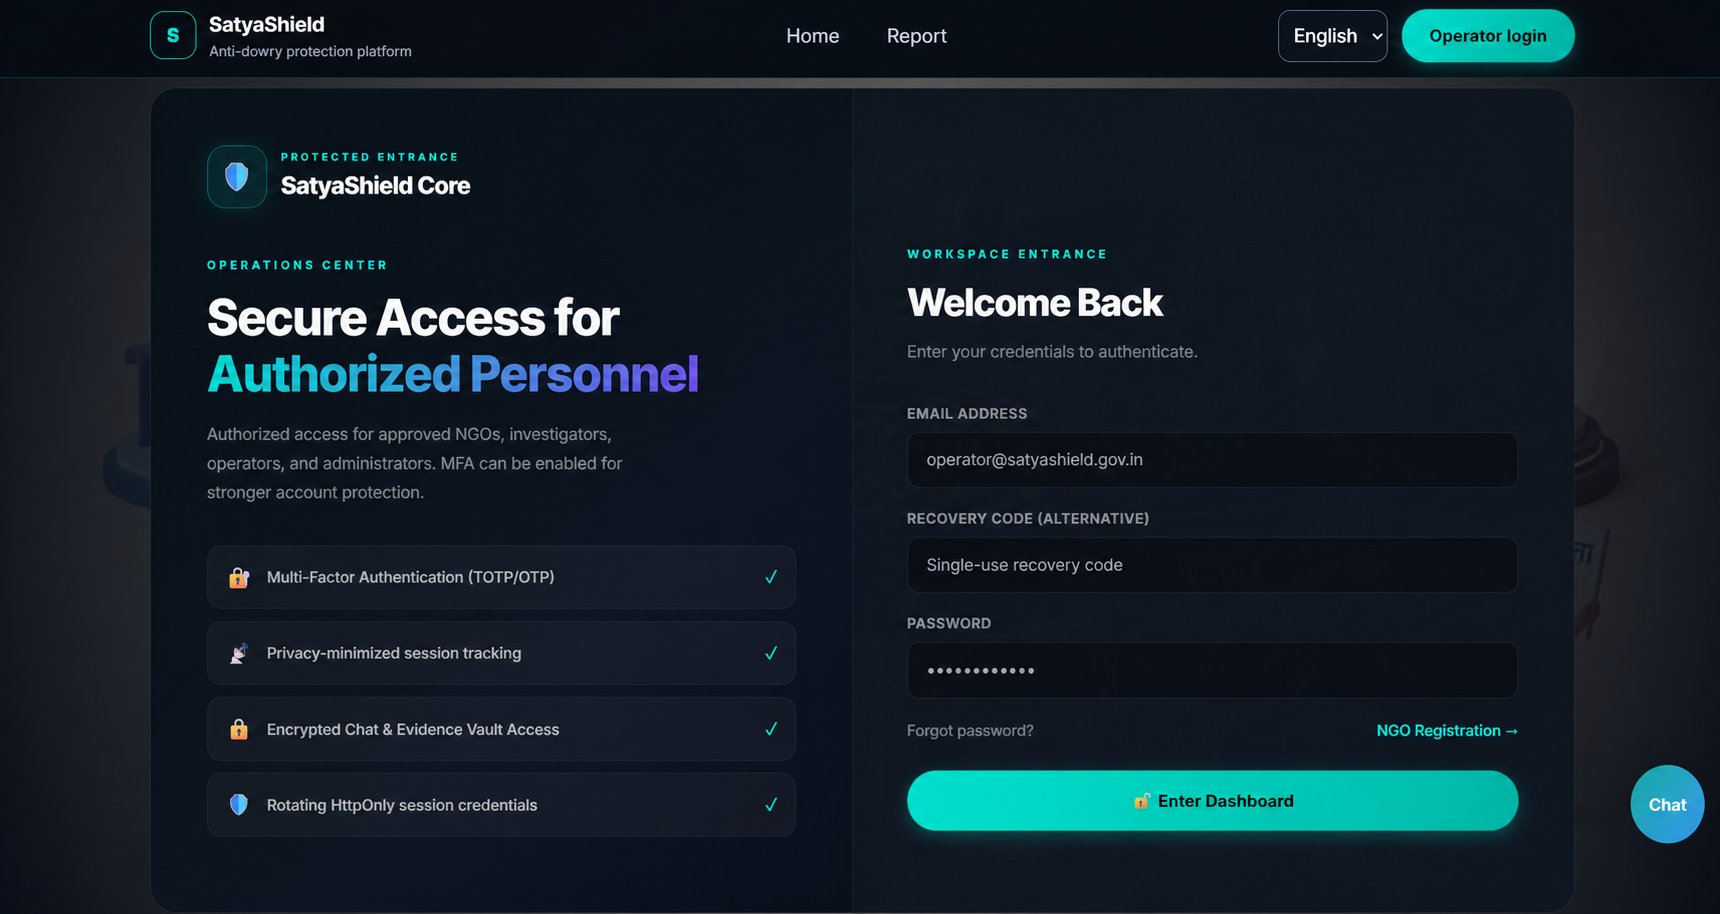
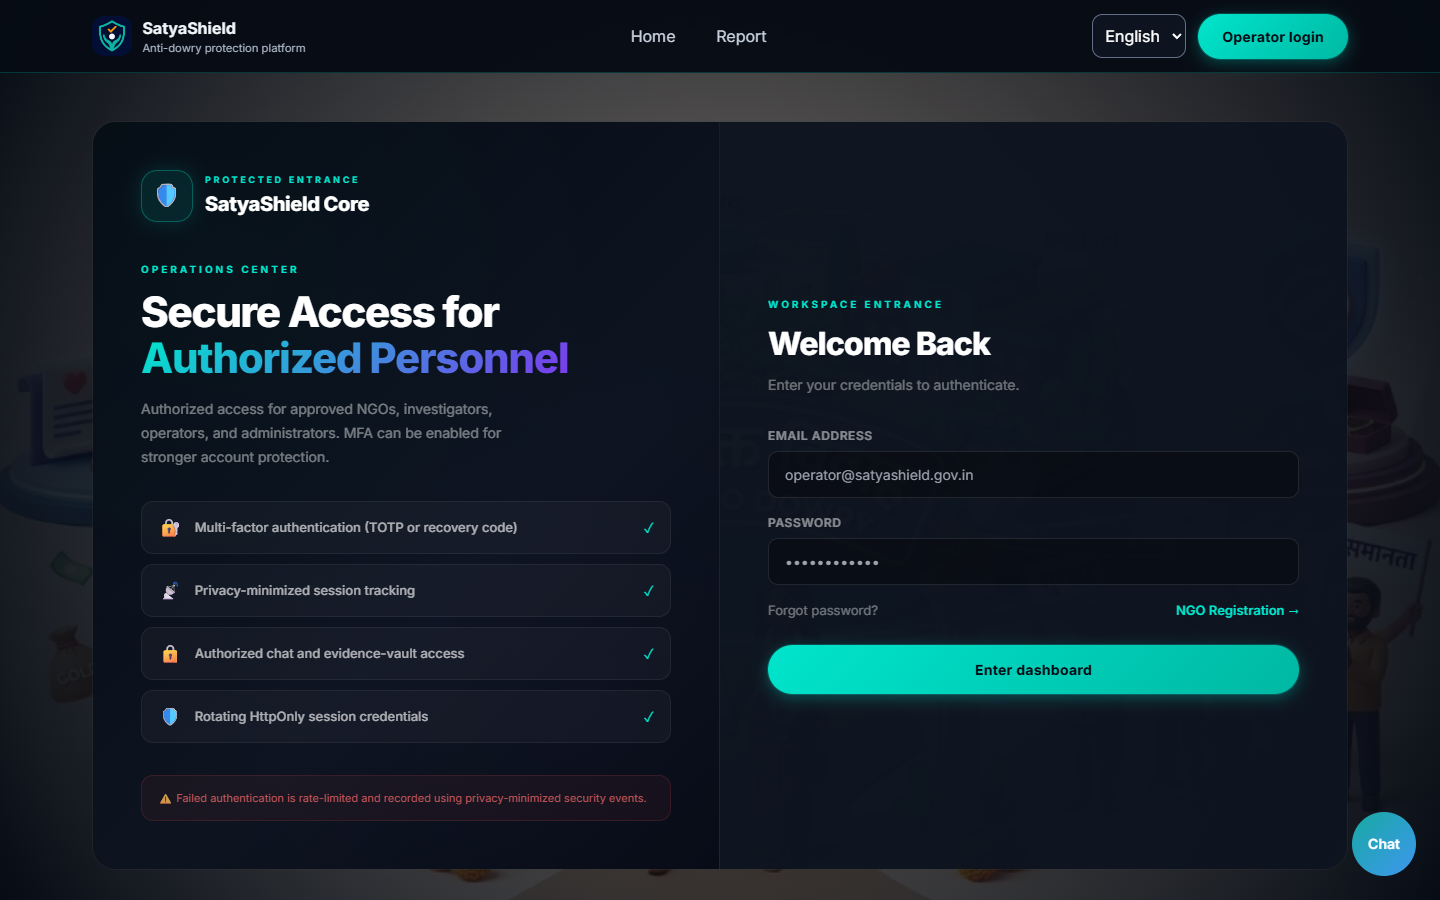
Refresh project documentation and live screenshots

diff --git a/README.md b/README.md
@@ -1,59 +1,107 @@
 # SatyaShield
 
 <p align="center">
-  <img src="client/public/satyashield-logo.png" alt="SatyaShield logo" width="720" />
+  <img src="client/public/satyashield-logo.png" alt="SatyaShield logo" width="620" />
 </p>
 
-SatyaShield is a privacy-focused MERN application for reporting dowry-harassment concerns, privately tracking a case, and coordinating authorized NGO, investigator, and administrative work.
+<p align="center">
+  A privacy-focused MERN platform for identity-minimized complaint reporting, protected case tracking, and controlled collaboration between authorized organizations and personnel.
+</p>
 
-> SatyaShield is not an emergency-dispatch service. It does not guarantee police, ambulance, NGO, message-delivery, or response outcomes.
+<p align="center">
+  <a href="https://satya-shield-client.vercel.app"><strong>Open Live Demo</strong></a>
+  &nbsp;•&nbsp;
+  <a href="https://satyashield-api.onrender.com/api/v1/health">API Health</a>
+  &nbsp;•&nbsp;
+  <a href="docs/architecture-and-security.md">Architecture &amp; Security</a>
+</p>
 
-## Highlights
+> [!IMPORTANT]
+> **PUBLIC DEMO AND INTERNAL EVALUATION ONLY — NOT A LIVE CASEWORK OR EMERGENCY SERVICE**
+>
+> SatyaShield is engineered as a substantial full-stack system whose architecture can support real complaint workflows, verified NGO participation, evidence handling, staff review, realtime communication, escalation, and internal SOS coordination when it is operated with approved organizations, qualified personnel, production infrastructure, monitoring, legal review, and audited security controls.
+>
+> **The current public deployment is intentionally restricted to demonstration and internal evaluation. It must not be used for actual complaints, real NGO casework, emergency assistance, or time-sensitive safety situations.** External emergency delivery is disabled, no response is guaranteed, and the platform does not contact police, ambulances, emergency responders, or public helplines. These restrictions are deliberate safeguards—not missing marketing claims.
 
-- Anonymous complaint intake with structured safety questions and explicit privacy acknowledgment.
-- One-time reporter access secret; only its keyed hash is retained.
-- Complaint-scoped tracking, evidence, chat, and internal SOS access.
-- Encrypted private evidence vault with lifecycle and integrity controls.
-- Staff authentication with rotating sessions, CSRF protection, TOTP MFA, and recovery codes.
-- Exact-resource authorization for NGOs, investigators, administrators, and superadministrators.
-- Deterministic NGO matching, capacity checks, assignment acknowledgment, and immediate revocation.
-- Deterministic triage, immutable assessment history, and restricted human overrides.
-- Internal deadlines, idempotent escalation scheduling, and complaint-scoped Socket.IO chat.
-- English and Hindi interface catalogs with automated parity and visible-string checks.
-- Provider-neutral notification queue and review-gated legal-information architecture.
+## Overview
 
-External AI and external SOS delivery are disabled.
+SatyaShield demonstrates how a sensitive social-impact workflow can be built around data minimization, exact-resource authorization, encrypted evidence, deterministic decision rules, and human oversight. Reporters receive one-time case credentials instead of creating an identity-linked account, while each staff role receives only the access required for its assigned responsibilities.
 
-## Architecture
+The application includes a React interface, an Express API, MongoDB-backed workflows, complaint-scoped Socket.IO communication, private evidence controls, role-based workspaces, and bilingual English/Hindi interface catalogs.
 
-The React client calls a versioned Express API. MongoDB stores case and workflow records; private evidence is encrypted before it reaches isolated storage. Reporter and staff credentials use separate token purposes and authorization boundaries. Realtime chat revalidates complaint access and supports immediate revocation.
+## Core capabilities
 
-See [Architecture and security](docs/architecture-and-security.md), [Authorization matrix](docs/authorization-matrix.md), and [Privacy data flow](docs/privacy-data-flow.md).
+- **Identity-minimized reporting** — complaint intake avoids requesting a reporter's name, phone number, exact address, or exact GPS coordinates.
+- **One-time private case access** — reporters receive a case ID and one-time access secret; only a keyed hash of the secret is retained.
+- **Structured safety triage** — deterministic answers guide review priority without narrative keyword scanning or external AI scoring.
+- **Human review controls** — immutable assessment history, review queues, restricted overrides, and explicit handling for Critical cases.
+- **Private evidence vault** — authorized evidence workflows include encryption, integrity checks, metadata minimization, and access logging.
+- **Exact-resource authorization** — reporter, NGO, investigator, administrator, and superadministrator permissions are separated and enforced per case.
+- **NGO routing and assignments** — verification state, coverage, capability, capacity, acknowledgment, reassignment, and immediate revocation are modeled explicitly.
+- **Secure staff authentication** — rotating refresh sessions, HttpOnly cookies, CSRF protection, TOTP MFA, recovery codes, and session revocation.
+- **Realtime case communication** — persistent complaint-scoped chat supports reconnection recovery and live access revocation.
+- **Escalation automation** — deadlines, scheduler leasing, retries, and idempotent internal workflow actions.
+- **Internal SOS workflow** — confirmation, cancellation, duplicate prevention, and optional encrypted location sharing without external dispatch.
+- **Bilingual and accessible interface** — English/Hindi catalogs, translation parity checks, keyboard support, responsive layouts, and automated accessibility coverage.
+- **Privacy-safe auditability** — security-relevant events are recorded without intentionally placing reporter credentials or private case content in routine logs.
 
-## Screenshots
+## Live application
 
-### Home
+| Component | Public endpoint | Purpose |
+| --- | --- | --- |
+| Web application | [satya-shield-client.vercel.app](https://satya-shield-client.vercel.app) | Public demonstration interface |
+| API service | [satyashield-api.onrender.com](https://satyashield-api.onrender.com) | Render-hosted backend |
+| Health endpoint | [API health check](https://satyashield-api.onrender.com/api/v1/health) | Service availability check |
 
-![SatyaShield home screen](docs/screenshots/home.png)
+The API uses Render's free service tier, so the first request after an idle period may take approximately 30–60 seconds. The demo uses safe, restricted integrations and does not activate real-world recipients or emergency delivery.
 
-### Anonymous complaint intake
+## Live deployment screenshots
 
-![SatyaShield anonymous complaint form](docs/screenshots/anonymous-report.png)
+The images below were captured directly from the public deployment.
 
-### Authorized staff login
+<table>
+  <tr>
+    <td width="50%" align="center">
+      <a href="docs/screenshots/home.png"><img src="docs/screenshots/home.png" alt="SatyaShield live home page" width="100%" /></a><br />
+      <sub><strong>Public home and private case entry</strong></sub>
+    </td>
+    <td width="50%" align="center">
+      <a href="docs/screenshots/anonymous-report.png"><img src="docs/screenshots/anonymous-report.png" alt="SatyaShield live anonymous complaint form" width="100%" /></a><br />
+      <sub><strong>Identity-minimized complaint intake</strong></sub>
+    </td>
+  </tr>
+  <tr>
+    <td colspan="2" align="center">
+      <a href="docs/screenshots/operator-login.png"><img src="docs/screenshots/operator-login.png" alt="SatyaShield live authorized staff login" width="49%" /></a><br />
+      <sub><strong>Protected staff workspace entrance</strong></sub>
+    </td>
+  </tr>
+</table>
 
-![SatyaShield operator login](docs/screenshots/operator-login.png)
+## Security and privacy design
+
+- Reporter and staff credentials use separate token purposes and authorization boundaries.
+- Refresh-token rotation and token-family reuse detection protect authenticated sessions.
+- Complaint access is revalidated for HTTP requests and realtime socket activity.
+- Assignment withdrawal or reassignment removes access immediately.
+- Evidence is encrypted before private storage and is never intentionally exposed as a public static upload.
+- External AI remains disabled and fails closed.
+- SOS actions remain inside SatyaShield; external delivery invocation is disabled.
+- Sensitive production values are supplied through environment configuration and are not committed to the repository.
+
+Detailed design references are available in the [architecture and security overview](docs/architecture-and-security.md), [authorization matrix](docs/authorization-matrix.md), and [privacy data flow](docs/privacy-data-flow.md).
 
 ## Technology
 
 - React 18, Vite, Tailwind CSS, and React Router
 - Node.js and Express
-- MongoDB Atlas with Mongoose
+- MongoDB Atlas and Mongoose
 - Socket.IO
 - JWT, rotating refresh tokens, TOTP, AES-GCM, HMAC, and scrypt
 - Node test runner, Playwright, and axe-core
+- Vercel frontend hosting and Render API hosting
 
-## Local setup
+## Local development
 
 Requirements: Node.js 20.12 or newer, npm, and a dedicated development MongoDB database.
 
@@ -70,7 +118,7 @@ Copy-Item server/.env.example server/.env
 Copy-Item client/.env.example client/.env
 ```
 
-Never commit `.env` files or reuse development secrets in production.
+Never commit environment files, deployment credentials, reporter credentials, or reusable secrets.
 
 ```bash
 npm run dev
@@ -90,20 +138,36 @@ npm run test:e2e --workspace client
 npm run test:mongodb --workspace server
 ```
 
-MongoDB runtime tests require an explicitly guarded test database. Automated browser tests use fake adapters and must never contact real recipients or emergency services.
+MongoDB runtime tests require an explicitly guarded test database. Automated browser suites use deterministic fixtures and fake adapters; they must never contact real recipients, providers, NGOs, emergency services, or helplines.
 
-See [Testing guide](docs/testing.md) and [Deployment guide](docs/deployment.md).
+See the [testing guide](docs/testing.md) and [deployment guide](docs/deployment.md) for the complete process.
 
-## Honest limitations
+## Deployment requirements for real operational use
 
-- No real email or notification provider is configured or verified.
-- No production helplines are published; entries require authoritative review.
+The repository is a strong engineering foundation, but a real-world deployment would require all of the following before accepting actual cases:
+
+- Legally approved operating policies, consent language, retention rules, and jurisdiction-specific review.
+- Contracted and independently verified NGOs, investigators, administrators, and escalation owners.
+- A monitored multi-instance realtime architecture with a shared Socket.IO adapter.
+- A production malware scanner and durable, private, encrypted evidence storage.
+- Verified email/notification providers and tested delivery-failure procedures.
+- Production TLS-cookie verification, secrets management, audit monitoring, backups, restoration drills, and incident response.
+- Human accessibility and screen-reader review, professional language review, and security assessment.
+- Clear service-level expectations and staffed operational processes.
+- A separately designed and authorized external emergency-response integration, if one is ever required.
+
+Until those controls exist and are independently approved, SatyaShield must remain a demonstration/internal-evaluation system.
+
+## Current limitations
+
+- No real email or external notification provider is configured or verified.
+- No production helplines are published.
 - SOS performs internal routing only and does not dispatch external help.
 - Chat is not end-to-end encrypted.
-- A production malware scanner is not configured, so production evidence availability must remain fail-closed.
-- Socket.IO is explicitly single-instance until a shared adapter is configured.
+- Evidence availability remains fail-closed because a production malware scanner and durable private storage are not configured for the public demo.
+- Socket.IO is configured for a single application instance until a shared adapter is introduced.
 - Manual screen-reader review, qualified legal/privacy review, deployed TLS-cookie verification, monitoring, and isolated backup restoration remain external readiness gates.
-- No response, complete anonymity, guaranteed deletion, legal certification, or production readiness is claimed.
+- The system does not promise response, message delivery, NGO action, complete anonymity, guaranteed deletion, legal certification, or emergency assistance.
 
 ## Documentation
 
@@ -117,3 +181,7 @@ See [Testing guide](docs/testing.md) and [Deployment guide](docs/deployment.md).
 - [Accessibility and translation status](docs/accessibility.md)
 - [Known limitations](docs/known-limitations.md)
 - [Changelog](CHANGELOG.md)
+
+## Responsible use
+
+SatyaShield is an engineering project and demonstration platform. It is not legal advice, a law-enforcement system, an emergency-dispatch service, or a guarantee of safety or organizational response. In an immediate emergency, contact the appropriate locally verified emergency service through a trusted device or person.
